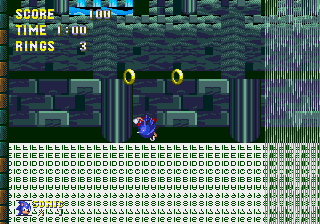
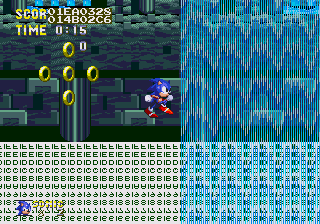
Segundo commit 17/06/2021

diff --git a/pag4.html b/pag4.html
@@ -125,7 +125,7 @@
         Ross afirma que o layout da fase foi concluído antes do início do desenvolvimento da Wood Zone.</p>
         <figure>
             <img class="img-g-fig" src="img/dusthill.png" alt="">
-            <figcaption class="legenda">Não oficial (print de um hack rom)</figcaption>
+            <figcaption class="legenda">Não oficial (print de uma hack rom)</figcaption>
         </figure>
         <p>O primeiro relatório conhecido da Dust Hill Zone (Sand Shower) é mencionado em uma concept art para um dos primeiros inimigos, chamado Banper, sugerindo que, em um período de desenvolvimento em que as viagens no tempo ainda estava sendo consideradas, a fase teria pertencido a uma das linhas do tempo. Banper também estava planejado para outra fase, a Rock Zone, ambientada no passado. Pode-se assumir que a Sand Shower e a Rock Zone são o mesmo lugar em tempos diferentes.</p>
         <p>Ross também afirmou em uma entrevista que a fase teria seções subterraneas. Ao lado de Ross, o diretor de arte Tim Skelly sugeriu que a maioria dos tiles gráficos teriam sido reutilizados (com uma paleta de cores diferente) na Winter Zone.</p>
@@ -134,7 +134,7 @@
         <p>Winter Zone também foi desenvolvida por Brenda Ross, e reutilizaria os gráficos da Sand Shower visto acima, as duas fases seriam colocadas distantes uma da outra para que a reciclagem de gráficos fosse menos óbvia de se perceber. De acordo com o diretor de arte, Tim Skelly, muito pouco conteúdo foi produzido para essa fase.</p>
         <figure>
             <img class="img-g-fig" src="img/winterzone.png" alt="">
-            <figcaption class="legenda">Não oficial (print de um hack rom)</figcaption>
+            <figcaption class="legenda">Não oficial (print de uma hack rom)</figcaption>
         </figure>
         <p>Enquanto a Sand Shower Zone estava sendo feita, a equipe de desenvolvimento trabalhou nos planos para outra fase, provisoriamente chamada Winter Zone. Seria a Sand Shower Zone mas com um tema de inverno dado aos gráficos da fase, mudando a paleta e substituindo cactos por árvores de natal. a ideia originalmente antes de ser uma fase diferente, era de que Sand Shower iria, no meio da gameplay, se transformar em uma fase com tema de neve.</p>
 

diff --git a/index.html b/index.html
@@ -164,12 +164,21 @@
         <p>O title card é carregado quando a fase começa, independentemente se a cutscene da abertura é reproduzido, fazendo com que as os gráficos quebrem totalmente.</p>
 
         <h3 id="HZ">Hidrocity Zone</h3>
-        <img class="img-p" src="img/bugvisualhidrocity.png" alt="">
-        <p>O jogo tinha problemas para carregar o fundo em altitudes mais elevadas do cenário após o jogador morrer na Hidrocity Zone, isso causava esse estranho bug visual, com vários números e gráficos quebrados.</p>
+        <div class="flex-container">
+            <div class="row">
+                <div class="column">
+                    <img src="img/bugvisualhidrocity.png" alt="Snow" style="width:100%">
+                </div>
+                <div class="column">
+                    <img src="img/bugvisual_2_hidrocity.png" alt="Forest" style="width:100%">
+                </div>
+            </div>
+        </div>
+        <p>Além de ter um fundo bem diferente (e bugado), o jogo tinha problemas para carregar o fundo em altitudes mais elevadas do cenário após o jogador morrer na Hidrocity Zone, isso causava esse estranho bug visual, com vários números e gráficos quebrados.</p>
 
         <h3 id="MVZ">Mushroom Valley Zone (Ou seja lá o que for)</h3>
         <img class="img-p" src="img/bugvisual_mushroomv.png" alt="">
-        <p>Essa é uma "fase" completamente quebrada e injogável, e, com isso, assim que o Sonic spawna, o jogador morre sem motivo. Ela reutiliza os title cards da Launch Base Zone. Isso acontece para o resto das fases até The Doomsday Zone, com algumas mudanças notáveis aqui e ali.</p>
+        <p>Essa é uma "fase" completamente quebrada e injogável, tanto que nem pode ser jogada sem alterar o código fonte, e, com isso, assim que o Sonic spawna, o jogador morre sem motivo. Ela reutiliza os title cards da Launch Base Zone. Isso acontece para o resto das fases até The Doomsday Zone, com algumas mudanças notáveis aqui e ali.</p>
 
         <h1 id="Referencias">Referências</h1>
         <p>1. <a href="https://hiddenpalace.org/Sonic_the_Hedgehog_3_(Nov_3,_1993_prototype)" target="_blank">Hidden Palace, Sonic the Hedgehog 3 (Nov 3, 1993 prototype)</a></p>

diff --git a/pag2.html b/pag2.html
@@ -54,7 +54,7 @@
                     <li><a href="#Esfera-giratoria">3.1. Esfera giratória</a></li>
                     <li><a href="#OVNIs?">3.2. OVNIs?</a></li>
                     <li><a href="#Muito-brilho!">3.3. Good Luck!</a></li>
-                    <li><a href="#Sem-agua">3.4. Fase de água sem água</a></li>
+                    <li><a href="#Sem-agua">3.4. Fase aquática sem água</a></li>
                     <li><a href="#Em-construcao">3.5. Em construção</a></li>
                     <li><a href="#Torre-do-relogio">3.6. Torre do relógio</a></li>
                 </ol>
@@ -157,7 +157,7 @@
 
         <h1 id="Prototipos">Protótipos</h1>
         <h2 id="Esfera-giratoria">Esfera giratória (Green Hill Zone)</h2>
-        <p>Green Hill Zone, presente desde o início do desenvolvimento do jogo, é a fase mais polida de todo o protótipo, e a única que termina com uma batalha de chefe. No entanto, ainda está muito longe do que acabou sendo lançado, em grande parte porque está repleto de bolas gigantes de destruição. (Eles estão em todos os três Atos!)</p>
+        <p>Green Hill Zone, presente desde o início do desenvolvimento do jogo, é a fase mais polida de todo o protótipo, e a única que termina com uma batalha de chefe. No entanto, ainda está muito longe do que acabou sendo lançado, em grande parte porque está cheia de bolas gigantes de destruição, estando em todos os três atos.</p>
         <figure>
             <div class="flex-container">
                 <div class="row">
@@ -221,7 +221,7 @@
             <li>A área dos bumbers perto do início contém um bumper com espinhos giratórios que não estão no jogo final.</li>
         </ul>
 
-        <h2 id="Sem-agua">Fase de água sem água (Labyrinth Zone)</h2>
+        <h2 id="Sem-agua">Fase aquática sem água (Labyrinth Zone)</h2>
         <p>Labyrinth Zone é mais incompleta das três fases anteriores, faltando muitas coisas e nem mesmo sendo jogável normalmente (o jogo pula de Sparkling Act 1 para Star Light). Como resultado, Labyrinth Zone só pode ser jogado por meio do level select.</p>   
         <figure>
             <div class="flex-container">
